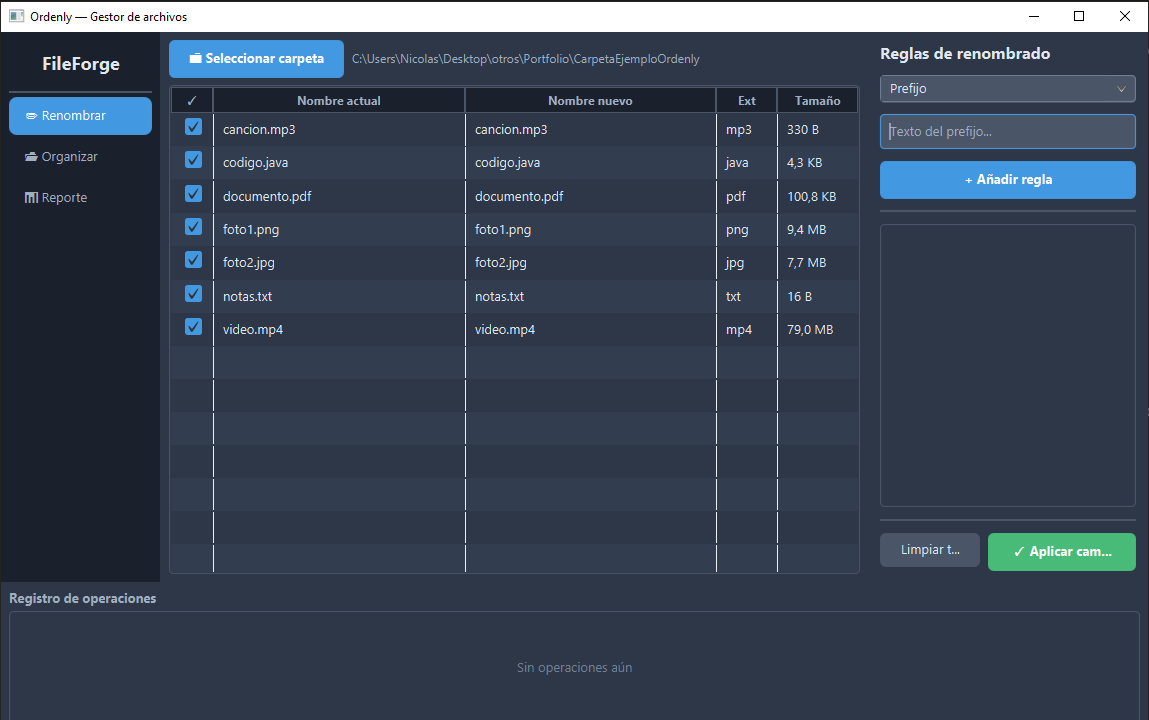
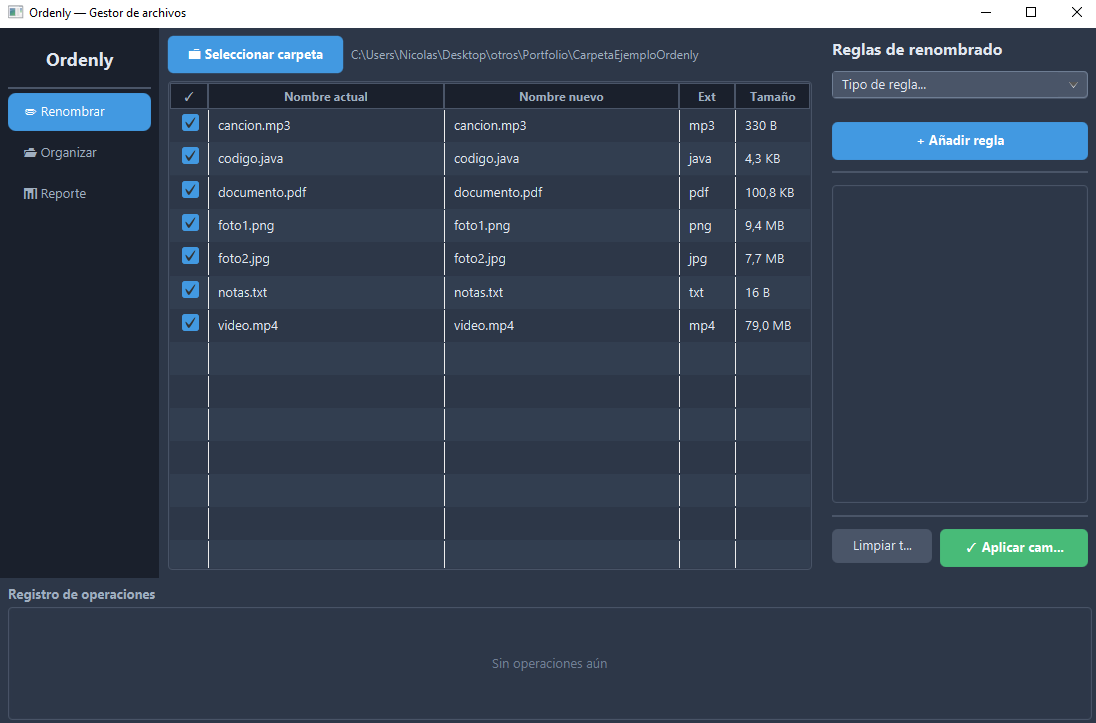
fix

diff --git a/src/main/java/com/ordenly/views/MainView.java b/src/main/java/com/ordenly/views/MainView.java
@@ -60,7 +60,7 @@ public class MainView extends BorderPane {
         sidebar.setPrefWidth(160);
         sidebar.setAlignment(Pos.TOP_CENTER);
 
-        Label logo = new Label("FileForge");
+        Label logo = new Label("Ordenly");
         logo.getStyleClass().add("logo");
 
         ToggleGroup modeGroup = new ToggleGroup();
